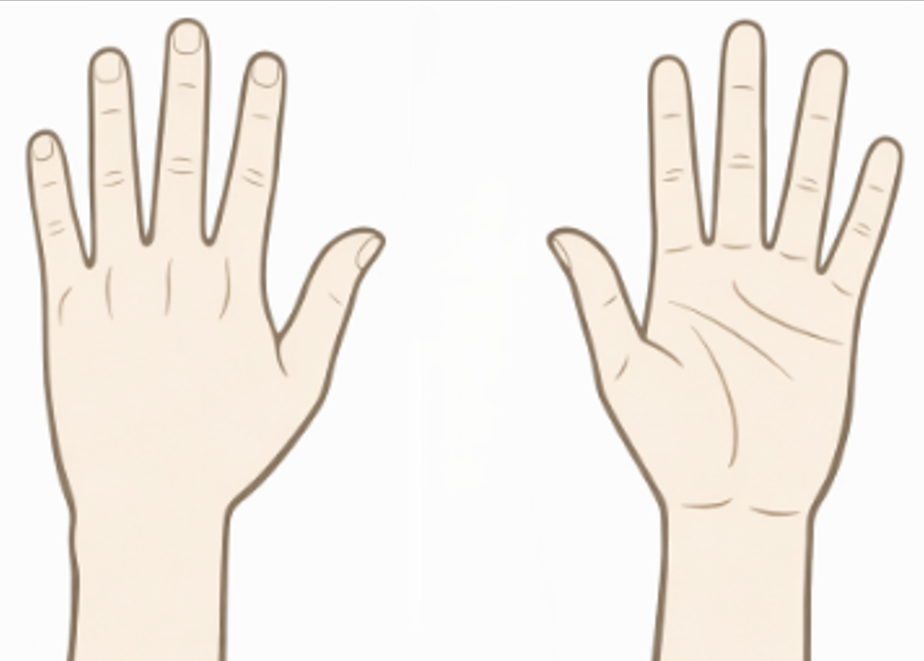
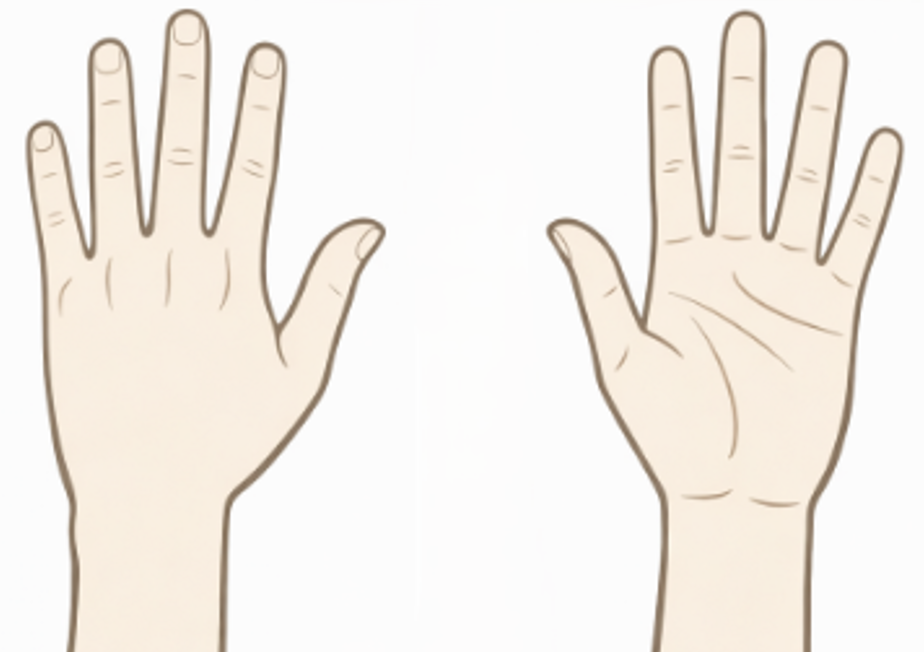
追加

diff --git a/templates/intakes/staff/recording_detail.html b/templates/intakes/staff/recording_detail.html
@@ -836,6 +836,43 @@
   }
 }
 
+.detail-svg{
+  width:100%;
+  height:auto;
+  display:block;
+  border-radius:12px;
+  background:#fff;
+}
+
+.detail-marker{
+  fill:#f2a007;
+  stroke:#fffaf0;
+  stroke-width:2.5;
+  cursor:pointer;
+  transition:transform .18s ease, opacity .18s ease, filter .18s ease;
+  transform-box:fill-box;
+  transform-origin:center;
+}
+
+.detail-marker.is-active{
+  transform:scale(1.18);
+  filter:drop-shadow(0 0 10px rgba(242,160,7,.32));
+}
+
+.detail-marker.is-dim{
+  opacity:.25;
+}
+
+.detail-marker-label{
+  font-size:10px;
+  font-weight:700;
+  fill:#0f172a;
+  paint-order:stroke;
+  stroke:#ffffff;
+  stroke-width:3px;
+  stroke-linejoin:round;
+}
+
 </style>
 
 <div class="ai-page">
@@ -926,30 +963,98 @@
         <div class="detail-card">
           <div class="detail-card-title">手指</div>
           <div class="detail-grid detail-grid-hands">
+
             <div class="detail-map">
               <div class="detail-map-label">左手</div>
-              <img src="{% static 'patients/img/hand_left.png' %}" alt="hand-left">
+              <svg
+                id="handLeftSvg"
+                class="detail-svg"
+                viewBox="0 0 320 220"
+                xmlns="http://www.w3.org/2000/svg"
+                aria-label="left hand map"
+              >
+                <image
+                  href="{% static 'patients/img/hand_left.png' %}"
+                  x="0"
+                  y="0"
+                  width="320"
+                  height="220"
+                  preserveAspectRatio="xMidYMid meet"
+                />
+                <g id="handLeftMarkers"></g>
+              </svg>
             </div>
 
             <div class="detail-map">
               <div class="detail-map-label">右手</div>
-              <img src="{% static 'patients/img/hand_right.png' %}" alt="hand-right">
+              <svg
+                id="handRightSvg"
+                class="detail-svg"
+                viewBox="0 0 320 220"
+                xmlns="http://www.w3.org/2000/svg"
+                aria-label="right hand map"
+              >
+                <image
+                  href="{% static 'patients/img/hand_right.png' %}"
+                  x="0"
+                  y="0"
+                  width="320"
+                  height="220"
+                  preserveAspectRatio="xMidYMid meet"
+                />
+                <g id="handRightMarkers"></g>
+              </svg>
             </div>
+
           </div>
         </div>
 
         <div class="detail-card">
           <div class="detail-card-title">足指</div>
           <div class="detail-grid detail-grid-feet">
+
             <div class="detail-map">
               <div class="detail-map-label">足背 / 前</div>
-              <img src="{% static 'patients/img/foot_front.png' %}" alt="foot-front">
+              <svg
+                id="footFrontSvg"
+                class="detail-svg"
+                viewBox="0 0 320 300"
+                xmlns="http://www.w3.org/2000/svg"
+                aria-label="foot front map"
+              >
+                <image
+                  href="{% static 'patients/img/foot_front.png' %}"
+                  x="0"
+                  y="0"
+                  width="320"
+                  height="300"
+                  preserveAspectRatio="xMidYMid meet"
+                />
+                <g id="footFrontMarkers"></g>
+              </svg>
             </div>
 
             <div class="detail-map">
               <div class="detail-map-label">足底 / 後</div>
-              <img src="{% static 'patients/img/foot_back.png' %}" alt="foot-back">
+              <svg
+                id="footBackSvg"
+                class="detail-svg"
+                viewBox="0 0 320 300"
+                xmlns="http://www.w3.org/2000/svg"
+                aria-label="foot back map"
+              >
+                <image
+                  href="{% static 'patients/img/foot_back.png' %}"
+                  x="0"
+                  y="0"
+                  width="320"
+                  height="300"
+                  preserveAspectRatio="xMidYMid meet"
+                />
+                <g id="footBackMarkers"></g>
+              </svg>
             </div>
+
           </div>
         </div>
 
@@ -1305,7 +1410,8 @@
 {% block scripts %}
 <script>
 // ===== 一時的
-const DEBUG_SHOW_ALL_MARKERS = false;//trueで全表示
+const DEBUG_SHOW_ALL_MARKERS = true;//trueで全表示
+const DEBUG_SHOW_ALL_DETAIL_MARKERS = true;
 
   (function(){
     function openModal(id){
@@ -1493,6 +1599,77 @@ const positionMap = {
   "左足後":       { back: { x:127, y:660 } },
 };
 
+const handMap = {
+  // 左手画像: 左が手背, 右が手掌
+  "左手背":      { left: { x:70,  y:120 } },
+  "左手掌":      { left: { x:245, y:120 } },
+
+  "左母指前":    { left: { x:275, y:115 } },
+  "左示指前":    { left: { x:210, y:55 } },
+  "左中指前":    { left: { x:245, y:42 } },
+  "左環指前":    { left: { x:278, y:55 } },
+  "左小指前":    { left: { x:304, y:84 } },
+
+  "左母指後":    { left: { x:110, y:115 } },
+  "左示指後":    { left: { x:40,  y:78 } },
+  "左中指後":    { left: { x:70,  y:42 } },
+  "左環指後":    { left: { x:102, y:46 } },
+  "左小指後":    { left: { x:130, y:84 } },
+
+  // 右手画像: 左が手掌, 右が手背
+  "右手掌":      { right: { x:75,  y:120 } },
+  "右手背":      { right: { x:248, y:120 } },
+
+  "右母指前":    { right: { x:45,  y:115 } },
+  "右示指前":    { right: { x:110, y:55 } },
+  "右中指前":    { right: { x:76,  y:42 } },
+  "右環指前":    { right: { x:44,  y:55 } },
+  "右小指前":    { right: { x:18,  y:84 } },
+
+  "右母指後":    { right: { x:210, y:115 } },
+  "右示指後":    { right: { x:278, y:78 } },
+  "右中指後":    { right: { x:248, y:42 } },
+  "右環指後":    { right: { x:216, y:46 } },
+  "右小指後":    { right: { x:190, y:84 } },
+};
+
+const footMap = {
+  // 足背 / 前
+  "右足背前":    { front: { x:92,  y:150 } },
+  "左足背前":    { front: { x:228, y:150 } },
+
+  "右母趾前":    { front: { x:110, y:42 } },
+  "右第2趾前":   { front: { x:89,  y:50 } },
+  "右第3趾前":   { front: { x:69,  y:60 } },
+  "右第4趾前":   { front: { x:50,  y:72 } },
+  "右小趾前":    { front: { x:32,  y:92 } },
+
+  "左母趾前":    { front: { x:208, y:42 } },
+  "左第2趾前":   { front: { x:228, y:50 } },
+  "左第3趾前":   { front: { x:248, y:60 } },
+  "左第4趾前":   { front: { x:267, y:72 } },
+  "左小趾前":    { front: { x:285, y:92 } },
+
+  // 足底 / 後
+  "右足底後":    { back: { x:92,  y:165 } },
+  "左足底後":    { back: { x:228, y:165 } },
+
+  "右踵後":      { back: { x:92,  y:250 } },
+  "左踵後":      { back: { x:228, y:250 } },
+
+  "右母趾後":    { back: { x:128, y:34 } },
+  "右第2趾後":   { back: { x:106, y:38 } },
+  "右第3趾後":   { back: { x:86,  y:45 } },
+  "右第4趾後":   { back: { x:67,  y:56 } },
+  "右小趾後":    { back: { x:49,  y:72 } },
+
+  "左母趾後":    { back: { x:192, y:34 } },
+  "左第2趾後":   { back: { x:214, y:38 } },
+  "左第3趾後":   { back: { x:234, y:45 } },
+  "左第4趾後":   { back: { x:253, y:56 } },
+  "左小趾後":    { back: { x:271, y:72 } },
+};
+
 function normalizeLocationName(name) {
   const n = String(name || "").trim();
 
@@ -1664,7 +1841,81 @@ function drawBodyMarkers() {
   });
 }
 
+function createDetailMarker(pos, rawLoc) {
+  const g = document.createElementNS(SVG_NS, "g");
+  g.dataset.loc = rawLoc;
+  g.setAttribute("class", "detail-marker-group");
+
+  const c = document.createElementNS(SVG_NS, "circle");
+  c.setAttribute("cx", pos.x);
+  c.setAttribute("cy", pos.y);
+  c.setAttribute("r", 8);
+  c.setAttribute("class", "detail-marker");
+  c.dataset.loc = rawLoc;
+  g.appendChild(c);
+
+  if (DEBUG_SHOW_ALL_DETAIL_MARKERS) {
+    const t = document.createElementNS(SVG_NS, "text");
+    t.setAttribute("x", pos.x + 10);
+    t.setAttribute("y", pos.y - 8);
+    t.setAttribute("class", "detail-marker-label");
+    t.textContent = rawLoc;
+    g.appendChild(t);
+  }
+
+  return g;
+}
+
+function drawHandMarkers() {
+  const leftLayer = document.getElementById("handLeftMarkers");
+  const rightLayer = document.getElementById("handRightMarkers");
+  if (!leftLayer || !rightLayer) return;
+
+  leftLayer.innerHTML = "";
+  rightLayer.innerHTML = "";
+
+  const source = DEBUG_SHOW_ALL_DETAIL_MARKERS ? Object.keys(handMap) : [];
+
+  source.forEach(key => {
+    const pos = handMap[key];
+    if (!pos) return;
+
+    if (pos.left) {
+      leftLayer.appendChild(createDetailMarker(pos.left, key));
+    }
+    if (pos.right) {
+      rightLayer.appendChild(createDetailMarker(pos.right, key));
+    }
+  });
+}
+
+function drawFootMarkers() {
+  const frontLayer = document.getElementById("footFrontMarkers");
+  const backLayer = document.getElementById("footBackMarkers");
+  if (!frontLayer || !backLayer) return;
+
+  frontLayer.innerHTML = "";
+  backLayer.innerHTML = "";
+
+  const source = DEBUG_SHOW_ALL_DETAIL_MARKERS ? Object.keys(footMap) : [];
+
+  source.forEach(key => {
+    const pos = footMap[key];
+    if (!pos) return;
+
+    if (pos.front) {
+      frontLayer.appendChild(createDetailMarker(pos.front, key));
+    }
+    if (pos.back) {
+      backLayer.appendChild(createDetailMarker(pos.back, key));
+    }
+  });
+}
+
 drawBodyMarkers();
+drawHandMarkers();
+drawFootMarkers();
+
 
 document.addEventListener("click", (e) => {
   const chip = e.target.closest(".loc-chip");
